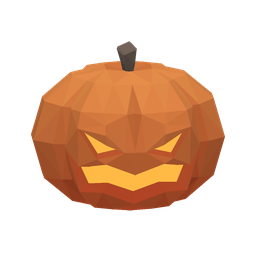
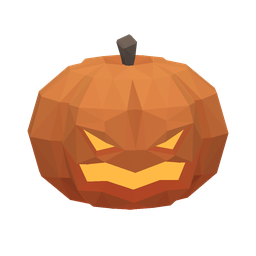
Halloween Pack: faces, spiders and mummy eyes toward the camera, spiders with legs, bigger hats

diff --git a/make_pack.py b/make_pack.py
@@ -167,8 +167,9 @@ def lit_creatures():
 
 
 # --- ball textures ------------------------------------------------------------------------------------------------------
-# A ball texture wraps the ball: u (left to right) goes once around, v (top to bottom) from pole to pole. The ball's
-# front (+x, the way it faces) is the texture's middle.
+# A ball texture wraps the ball: u (left to right) goes once around, v (top to bottom) from pole to pole. Measured on
+# the racing ball at the start (a test texture of four coloured quarters): the camera behind the ball looks at u = 0.25,
+# the side where a model's -x is. Textures are drawn about +x here and turned a quarter to put their front there.
 TW, TH = 1024, 512
 
 
@@ -209,6 +210,7 @@ def spider_web():
             r = ring * (math.cos(step / 2) / np.cos(a)) * (1 - 0.06 * np.cos(a * spokes / 2) ** 2)
             web = np.maximum(web, smooth(np.abs(theta - r) * 1.0, 0.011) * near * (theta > 0.05))
     col = col * (1 - web[..., None]) + np.array([0.92, 0.92, 0.96]) * web[..., None]
+    col = np.roll(col, -TW // 4, axis=1)                            # a web's middle where the camera looks (u = 0.25)
     save(col, "spider_web.png")
 
 
@@ -237,6 +239,7 @@ def mummy():
         col = np.where((ang < 0.11)[..., None], np.array([0.95, 0.93, 0.85]), col)
         pupil = np.array([math.cos(0.17) * math.cos(0.2 * side - 0.02), math.cos(0.17) * math.sin(0.2 * side - 0.02), math.sin(0.17)])
         col = np.where((np.arccos(np.clip(p @ pupil, -1, 1)) < 0.045)[..., None], np.array([0.05, 0.03, 0.02]), col)
+    col = np.roll(col, -TW // 4, axis=1)                            # the eyes where the camera looks (u = 0.25)
     save(col, "mummy.png")
 
 
@@ -268,7 +271,7 @@ def candle_flames(size, turned=False):
         p = (np.array(wick) - centre) * k
         if turned:                                  # turned round (yaw 180) about the centre of its bounds
             p[0], p[1] = -p[0], -p[1]
-        lines.append(f"sphere flame r=0.9 at={p[0]:.1f},{p[1]:.1f},{p[2] + 1.0:.1f} scale=1,1,1.7")
+        lines.append(f"sphere flame r={0.9 * size / 30:.2f} at={p[0]:.1f},{p[1]:.1f},{p[2] + 1.0:.1f} scale=1,1,1.7")
     return lines
 
 
@@ -277,7 +280,7 @@ def spider_lines():
     its legs lying along it: eight legs, four to a side, each two capsules (a rising upper part, a lower part reaching
     down to the surface). A capsule stands along z, so turning it by `roll` about x lays it along (0, cos, sin)."""
     lines = ["material spider plastic #14101a rough=0.35", "material eyes glow #ff2010 bright=8"]
-    for sign, scale in ((1, 1.0), (-1, 0.65)):
+    for sign, scale in ((-1, 1.0), (1, 0.65)):      # the big one on the camera side (-x)
         r = lambda v: v * scale
         base = 50 + r(3.5)
         lines.append(f"sphere spider r={r(5.5):.1f} at={sign * base:.1f},0,0 scale=0.85,1,0.95")
@@ -289,12 +292,12 @@ def spider_lines():
                 d = (math.cos(math.radians(theta)) * side, math.sin(math.radians(theta)))
                 # direction in the y-z plane, and the roll that lays a z-capsule along it
                 ang = math.degrees(math.atan2(d[1], d[0]))            # from +y toward +z
-                rot = ang - 90
+                rot = 90 - ang                                        # a roll turns +z to (0, sin, cos): measured from turn()
                 x1, x2 = sign * (base + r(2.5)), sign * (base - r(0.4))
                 a1 = (r(4.5) * d[0], r(4.5) * d[1])
-                a2 = (a1[0] + r(9) * d[0], a1[1] + r(9) * d[1])
-                lines.append(f"capsule spider r={r(0.75):.2f} len={r(8):.1f} at={x1:.1f},{a1[0]:.1f},{a1[1]:.1f} rot=0,0,{rot:.1f}")
-                lines.append(f"capsule spider r={r(0.6):.2f} len={r(8):.1f} at={x2:.1f},{a2[0]:.1f},{a2[1]:.1f} rot=0,0,{rot:.1f}")
+                a2 = (a1[0] + r(10) * d[0], a1[1] + r(10) * d[1])
+                lines.append(f"capsule spider r={r(1.0):.2f} len={r(9):.1f} at={x1:.1f},{a1[0]:.1f},{a1[1]:.1f} rot=0,0,{rot:.1f}")
+                lines.append(f"capsule spider r={r(0.8):.2f} len={r(9):.1f} at={x2:.1f},{a2[0]:.1f},{a2[1]:.1f} rot=0,0,{rot:.1f}")
     return lines
 
 
@@ -302,11 +305,11 @@ MODEL_TEXT = {
     "pumpkin_ball.txt": """# The ball as a jack-o'-lantern: KayKit's (Kay Lousberg, CC0), recoloured orange by make_pack.py, stretched a little
 # upright so its body is as round as the ball and a little bigger (106 cm across), rolling with it. The ball itself is
 # clear glass, so where it shows through the pumpkin's grooves the pumpkin is seen through it.
-mesh jackolantern_orange.glb size=106 scale=1.07,1,1.3 at=0,0,-51
+mesh jackolantern_orange.glb size=106 scale=1.07,1,1.3 at=0,0,-51 rot=0,180,0
 """,
     "skull_ball.txt": """# The ball as a skull: KayKit's (Kay Lousberg, CC0), a little bigger than the ball and rolling with it. The ball itself
 # is clear glass, so where it shows through, the skull is seen through it.
-mesh skull.glb size=106 at=0,0,-51
+mesh skull.glb size=106 at=0,0,-51 rot=0,180,0
 """,
     "ghost_ball.txt": """# A ghost (Quaternius, CC0, recoloured to glow by make_pack.py) floating inside a clear ball with a misty purple lower
 # half, looking back at the camera. It hovers, and flies faster as the ball speeds up.
@@ -410,7 +413,7 @@ box buckle size=0.8,5,4.4 at=12.9,0,3.1
 """,
     "jackolantern_hat.txt": """# A little jack-o'-lantern (KayKit, Kay Lousberg, CC0, recoloured orange) sitting on the ball, turned round so its
 # face looks back at the camera behind the ball.
-mesh jackolantern_orange.glb size=30 rot=0,180,0
+mesh jackolantern_orange.glb size=42 rot=0,180,0
 """,
     "devil_horns.txt": """# Devil horns built from shapes: two red horns curving out and up.
 material horn plastic #d01820 rough=0.3
@@ -422,13 +425,13 @@ cone horn r=3 top=1.6 h=7 at=2,11.7,5.5 rot=0,0,38
 cone horn r=1.6 top=0.2 h=6 at=2,15.9,11 rot=0,0,60
 """,
     "bat_hat.txt": """# A bat (Quaternius, CC0) hovering over the ball, flapping, turned round to look back at the camera behind the ball.
-mesh bat.glb size=34 at=0,0,6 rot=0,180,0 anim=Flying rate=1
+mesh bat.glb size=48 at=0,0,6 rot=0,180,0 anim=Flying rate=1
 """,
     "skull_candle_hat.txt": """# A skull with three lit candles on it (KayKit, Kay Lousberg, CC0), with glowing flames on the wicks, turned round
 # to look back at the camera behind the ball.
 material flame glow #ffb840 bright=12
-mesh skull_candle.glb size=30 rot=0,180,0
-""" + "\n".join(candle_flames(30, turned=True)) + "\n",
+mesh skull_candle.glb size=40 rot=0,180,0
+""" + "\n".join(candle_flames(40, turned=True)) + "\n",
 }
 
 
@@ -545,6 +548,29 @@ def shape_tris(words, mats):
         for i in range(seg):
             tris += [[a[i], a[(i + 1) % seg], b[i]], [b[i], a[(i + 1) % seg], b[(i + 1) % seg]]]
             tris += [[np.zeros(3), a[i], a[(i + 1) % seg]], [np.array([0, 0, h]), b[i], b[(i + 1) % seg]]]
+    elif kind == "capsule":
+        r, length = float(o["r"]), float(o["len"])
+        a, b = ring(r, r), ring(r, r + length)
+        for i in range(seg):
+            tris += [[a[i], a[(i + 1) % seg], b[i]], [b[i], a[(i + 1) % seg], b[(i + 1) % seg]]]
+        for cz, sign in ((r, -1), (r + length, 1)):
+            rows = 6
+            for j in range(rows):
+                t0, t1 = math.pi / 2 * j / rows, math.pi / 2 * (j + 1) / rows
+                c0 = ring(r * math.cos(t0), cz + sign * r * math.sin(t0))
+                c1 = ring(r * math.cos(t1), cz + sign * r * math.sin(t1))
+                for i in range(seg):
+                    tris += [[c0[i], c1[i], c0[(i + 1) % seg]], [c0[(i + 1) % seg], c1[i], c1[(i + 1) % seg]]]
+    elif kind == "ring":
+        r, thick = float(o["r"]), float(o["thick"]) / 2
+        span = math.radians(float(o.get("degrees", 360)))
+        n = 40
+        for i in range(n):
+            a0, a1 = span * i / n, span * (i + 1) / n
+            for j in range(8):
+                b0, b1 = 2 * math.pi * j / 8, 2 * math.pi * (j + 1) / 8
+                pt = lambda a, b: np.array([(r + thick * math.cos(b)) * math.cos(a), (r + thick * math.cos(b)) * math.sin(a), thick * math.sin(b)])
+                tris += [[pt(a0, b0), pt(a1, b0), pt(a0, b1)], [pt(a1, b0), pt(a1, b1), pt(a0, b1)]]
     elif kind == "disc":
         r = float(o["r"])
         a = ring(r, 0)
@@ -576,7 +602,7 @@ def model_tris(text, work):
             mats[w[1]] = (w[2], colour, float(opts.get("opacity", 1)) if w[2] == "glass" else 1.0)
         elif w[0] == "mesh":
             out += mesh_tris(s, work)
-        elif w[0] in ("sphere", "bowl", "cylinder", "cone", "disc", "box"):
+        elif w[0] in ("sphere", "bowl", "cylinder", "cone", "disc", "box", "capsule", "ring"):
             out += shape_tris(w, mats)
     return out
 
@@ -638,7 +664,7 @@ def textured_ball(tex, view, right, up, n):
     inside = r2 < 1
     sz = np.sqrt(np.clip(1 - r2, 0, 1))
     p = sx[..., None] * right + sy[..., None] * up + sz[..., None] * view
-    lon = np.arctan2(p[..., 1], p[..., 0])
+    lon = np.arctan2(p[..., 1], p[..., 0]) + math.pi / 2           # u = 0.25 on the model's -x side (measured)
     lat = np.arcsin(np.clip(p[..., 2], -1, 1))
     u = ((lon / (2 * math.pi) + 0.5) * tex.shape[1]).astype(int) % tex.shape[1]
     v = np.clip(((0.5 - lat / math.pi) * tex.shape[0]).astype(int), 0, tex.shape[0] - 1)
@@ -661,21 +687,21 @@ def previews():
     with tempfile.TemporaryDirectory() as tmp:
         work = Path(tmp)
         tris = lambda f: model_tris((MODELS / f).read_text(), work)
-        draw(tris("pumpkin_ball.txt"), PREVIEWS / "pumpkin.png", ball=None, azimuth=10, elevation=10, extent=62)
-        draw(tris("skull_ball.txt"), PREVIEWS / "skull.png", ball=None, azimuth=15, elevation=8, extent=60)
+        draw(tris("pumpkin_ball.txt"), PREVIEWS / "pumpkin.png", ball=None, azimuth=190, elevation=10, extent=62)
+        draw(tris("skull_ball.txt"), PREVIEWS / "skull.png", ball=None, azimuth=195, elevation=8, extent=60)
         draw(tris("ghost_ball.txt"), PREVIEWS / "ghost.png", ball="glass", azimuth=195)
         draw(tris("bat_ball.txt"), PREVIEWS / "bat.png", ball="glass", azimuth=190)
         draw(tris("ghost_skull_ball.txt"), PREVIEWS / "ghost_skull.png", ball="glass", azimuth=195)
         draw(tris("brew_ball.txt"), PREVIEWS / "brew.png", ball="glass", azimuth=20, elevation=22)
         draw(tris("graveyard_ball.txt"), PREVIEWS / "graveyard.png", ball="glass", azimuth=200, elevation=18)
-        draw(tris("spider_ball.txt"), PREVIEWS / "spider_web.png", ball=texture("spider_web.png"), azimuth=0, elevation=10, extent=56)
-        for name in ("mummy", "candy_corn"):
-            draw([], PREVIEWS / f"{name}.png", ball=texture(f"{name}.png"), azimuth=0, elevation=10, extent=52)
+        draw(tris("spider_ball.txt"), PREVIEWS / "spider_web.png", ball=texture("spider_web.png"), azimuth=180, elevation=10, extent=56)
+        draw([], PREVIEWS / "mummy.png", ball=texture("mummy.png"), azimuth=180, elevation=10, extent=52)
+        draw([], PREVIEWS / "candy_corn.png", ball=texture("candy_corn.png"), azimuth=0, elevation=10, extent=52)
         draw(tris("witch_hat.txt"), PREVIEWS / "witch_hat.png", azimuth=20, elevation=18, extent=30, centre_z=14)
-        draw(tris("jackolantern_hat.txt"), PREVIEWS / "jackolantern_hat.png", azimuth=185, elevation=12, extent=20, centre_z=12)
+        draw(tris("jackolantern_hat.txt"), PREVIEWS / "jackolantern_hat.png", azimuth=185, elevation=12, extent=27, centre_z=16)
         draw(tris("devil_horns.txt"), PREVIEWS / "devil_horns.png", azimuth=10, elevation=10, extent=22, centre_z=5)
-        draw(tris("bat_hat.txt"), PREVIEWS / "bat_hat.png", azimuth=185, elevation=10, extent=22, centre_z=16)
-        draw(tris("skull_candle_hat.txt"), PREVIEWS / "skull_candle_hat.png", azimuth=200, elevation=12, extent=20, centre_z=14)
+        draw(tris("bat_hat.txt"), PREVIEWS / "bat_hat.png", azimuth=185, elevation=10, extent=30, centre_z=22)
+        draw(tris("skull_candle_hat.txt"), PREVIEWS / "skull_candle_hat.png", azimuth=200, elevation=12, extent=26, centre_z=19)
     Image.open(PREVIEWS / "pumpkin.png").save(HERE / "icon.png")
 
 
